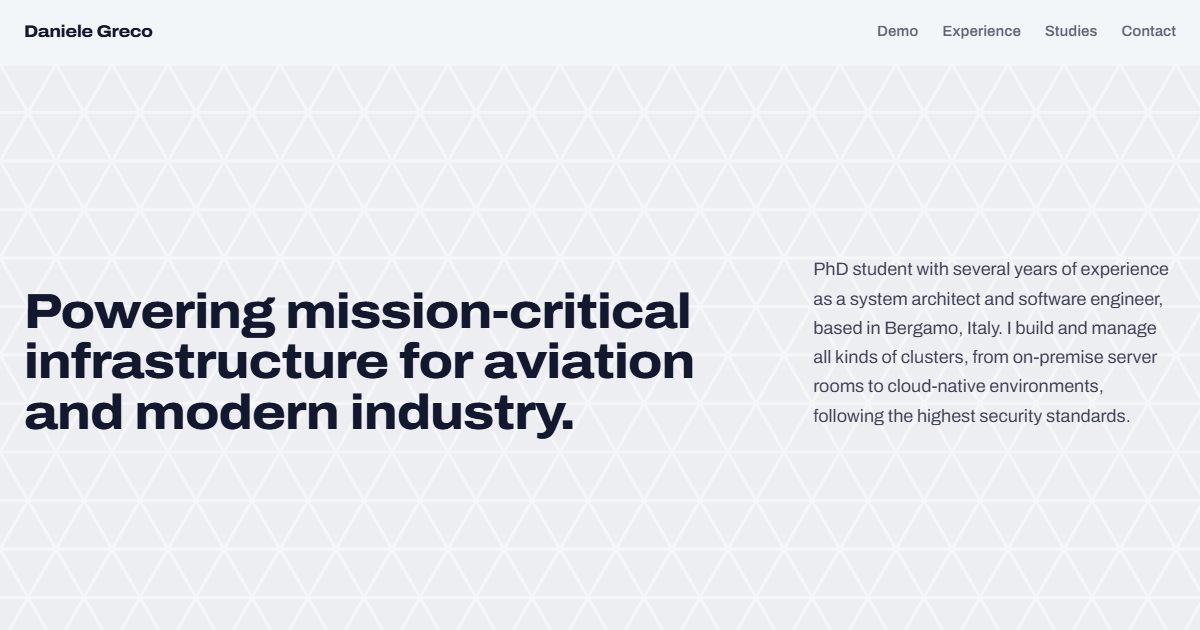
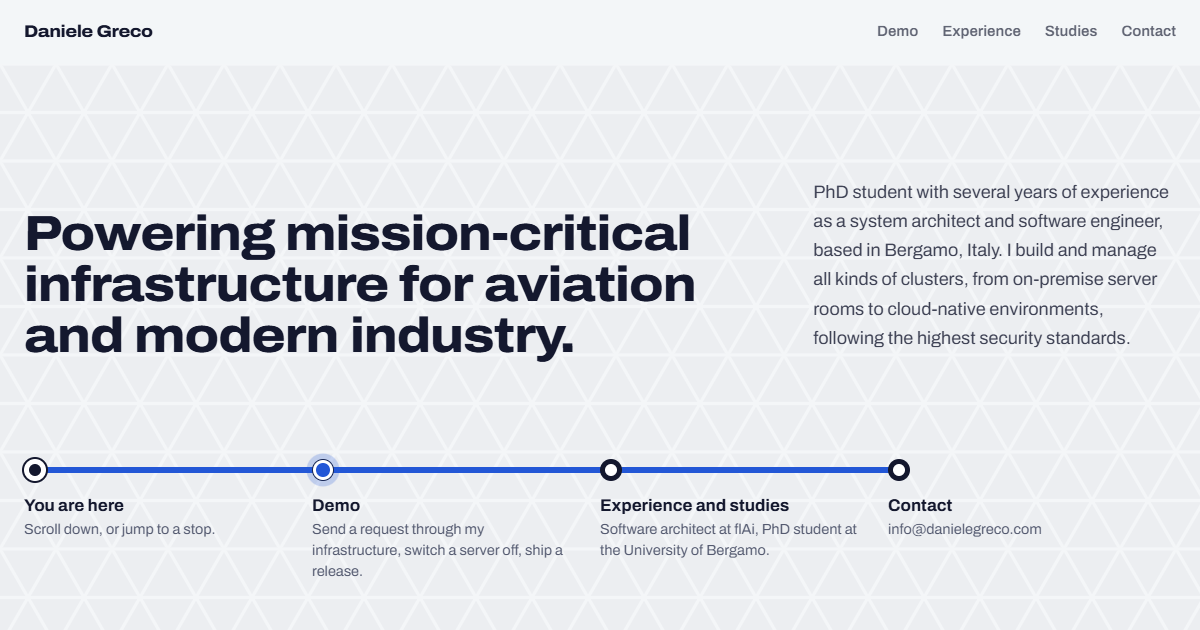
feat: animated headings, blue triangle field and a hero transit line
Headline words slide up one after the other on load, section titles when their screen comes into view. The triangle field uses shades of the palette blue only. Under the headline, the site's sections are drawn as stops on a transit line: it draws itself on load and a train moves to the Demo stop. Reduced motion shows everything at once.

diff --git a/src/styles/global.css b/src/styles/global.css
@@ -80,6 +80,215 @@
   }
 }
 
+/* Entrance animations. Without JavaScript (no .js class) everything is simply visible. */
+.js .reveal .w {
+  display: inline-block;
+  overflow: hidden;
+  vertical-align: top;
+  padding: 0.12em 0.03em 0.1em;
+  margin: -0.12em -0.03em -0.1em;
+}
+.js .reveal .w > span {
+  display: inline-block;
+  transform: translateY(115%) rotate(5deg);
+  transform-origin: 0 100%;
+}
+.js .reveal.in .w > span {
+  animation: word-in 0.55s cubic-bezier(0.22, 1.32, 0.36, 1) forwards;
+  animation-delay: calc(var(--i, 0) * 55ms + var(--delay, 0ms));
+}
+@keyframes word-in {
+  to {
+    transform: none;
+  }
+}
+
+.js .fade-up {
+  opacity: 0;
+  transform: translateY(12px);
+}
+.js .fade-up.in {
+  animation: fade-up 0.6s ease-out forwards;
+  animation-delay: var(--delay, 0ms);
+}
+@keyframes fade-up {
+  to {
+    opacity: 1;
+    transform: none;
+  }
+}
+
+/* Hero: the site drawn as a transit line, one stop per section. */
+.stops {
+  --dot: 22px;
+  position: relative;
+}
+.stops-list {
+  display: grid;
+  gap: 1.1rem;
+}
+.stops-line {
+  position: absolute;
+  border-radius: 9999px;
+  background: var(--color-traffic);
+  top: calc(var(--dot) / 2);
+  bottom: calc(var(--dot) / 2);
+  left: calc(var(--dot) / 2 - 3px);
+  width: 6px;
+  transform-origin: center top;
+}
+.stop {
+  position: relative;
+  padding-left: calc(var(--dot) + 14px);
+  min-height: var(--dot);
+}
+.stop-dot {
+  position: absolute;
+  left: 0;
+  top: 0;
+  width: var(--dot);
+  height: var(--dot);
+  border-radius: 50%;
+  background: #fff;
+  border: 5px solid var(--color-ink);
+  transition: background-color 0.15s, border-color 0.15s;
+}
+.stop-here .stop-dot {
+  background: var(--color-ink);
+  border-color: #fff;
+  box-shadow: 0 0 0 2px var(--color-ink);
+}
+.stop-name {
+  display: block;
+  font-size: 17px;
+  font-weight: 700;
+  line-height: var(--dot);
+}
+.stop-text {
+  display: block;
+  margin-top: 2px;
+  max-width: 32ch;
+  font-size: 14.5px;
+  line-height: 1.45;
+  color: var(--color-muted);
+}
+.stop-link:hover .stop-dot,
+.stop-link:focus-visible .stop-dot {
+  background: var(--color-traffic);
+  border-color: var(--color-traffic);
+}
+.stop-link:hover .stop-name {
+  text-decoration: underline;
+  text-underline-offset: 4px;
+}
+.stops-train {
+  display: none;
+}
+@media (min-width: 640px) {
+  .stops-list {
+    grid-template-columns: repeat(4, minmax(0, 1fr));
+    gap: 0;
+  }
+  .stops-line {
+    top: calc(var(--dot) / 2 - 3px);
+    bottom: auto;
+    left: calc(var(--dot) / 2);
+    right: calc(25% - var(--dot) / 2);
+    width: auto;
+    height: 6px;
+    transform-origin: left center;
+  }
+  .stop {
+    padding-left: 0;
+    padding-top: calc(var(--dot) + 14px);
+    padding-right: 1.5rem;
+  }
+  .stops-train {
+    display: block;
+    position: absolute;
+    top: calc(var(--dot) / 2 - 7px);
+    left: calc(var(--dot) / 2 - 7px);
+    width: 14px;
+    height: 14px;
+    border-radius: 50%;
+    background: var(--color-traffic);
+    box-shadow: 0 0 0 3px #fff;
+    pointer-events: none;
+    z-index: 1;
+  }
+}
+
+.js .stops .stops-line {
+  transform: scaleY(0);
+}
+.js .stops .stop,
+.js .stops .stops-train {
+  opacity: 0;
+}
+.js .stops.in .stops-line {
+  animation: line-in 0.7s cubic-bezier(0.65, 0, 0.35, 1) 0.75s forwards;
+}
+.js .stops.in .stop {
+  animation: fade-up 0.45s ease-out forwards;
+  animation-delay: calc(0.85s + var(--n) * 0.13s);
+  transform: translateY(8px);
+}
+.js .stops.in .stops-train {
+  animation:
+    train-arrive 0.3s ease-out 1.45s forwards,
+    train-go 0.9s cubic-bezier(0.65, 0, 0.35, 1) 1.75s forwards,
+    train-wait 1.6s ease-out 2.65s 3;
+}
+@keyframes line-in {
+  to {
+    transform: none;
+  }
+}
+@keyframes train-arrive {
+  to {
+    opacity: 1;
+  }
+}
+@keyframes train-go {
+  from {
+    opacity: 1;
+    left: calc(var(--dot) / 2 - 7px);
+  }
+  to {
+    opacity: 1;
+    left: calc(25% + var(--dot) / 2 - 7px);
+  }
+}
+@keyframes train-wait {
+  0% {
+    box-shadow: 0 0 0 3px #fff, 0 0 0 3px rgb(35 87 214 / 0.45);
+  }
+  100% {
+    box-shadow: 0 0 0 3px #fff, 0 0 0 16px rgb(35 87 214 / 0);
+  }
+}
+@media (min-width: 640px) {
+  .js .stops .stops-line {
+    transform: scaleX(0);
+  }
+}
+
+@media (prefers-reduced-motion: reduce) {
+  .js .reveal .w > span,
+  .js .fade-up,
+  .js .stops .stops-line,
+  .js .stops .stop {
+    animation: none !important;
+    transform: none !important;
+    opacity: 1 !important;
+  }
+  .js .stops .stops-train {
+    animation: none !important;
+    opacity: 1 !important;
+    left: calc(25% + var(--dot) / 2 - 7px);
+  }
+}
+
 /* Map: SVG groups draw their own focus ring. */
 .hit:focus {
   outline: none;

diff --git a/src/scripts/field.js b/src/scripts/field.js
@@ -1,7 +1,8 @@
 // Hero background: a field of triangles that fly into place on load,
 // then scatter around the pointer and fall back into the grid behind it.
 
-const COLORS = ['#2357d6', '#0e9f7e', '#e59a00', '#7a4ce0'].map((hex) => [
+// Shades of the palette blue, from deep to light.
+const COLORS = ['#1f3f99', '#2357d6', '#4a78e4', '#7b9ff0', '#a9c0f5'].map((hex) => [
   parseInt(hex.slice(1, 3), 16),
   parseInt(hex.slice(3, 5), 16),
   parseInt(hex.slice(5, 7), 16),
@@ -47,7 +48,7 @@ export function startField(canvas) {
         const rnd = hash(r, c);
         tris.push({
           cx, cy, up, side, h,
-          color: COLORS[Math.floor(rnd * 4) % 4],
+          color: COLORS[Math.floor(rnd * COLORS.length) % COLORS.length],
           spin: rnd > 0.5 ? 1 : -1,
           release: 150 + (cx / Math.max(W, 1)) * 700 + rnd * 250,
           dx: intro ? (rnd - 0.5) * 220 : 0,
@@ -78,7 +79,7 @@ export function startField(canvas) {
     ctx.closePath();
     if (t.glow > 0.01) {
       const [r, g, b] = t.color;
-      ctx.fillStyle = `rgba(${r}, ${g}, ${b}, ${(0.06 + 0.52 * t.glow).toFixed(3)})`;
+      ctx.fillStyle = `rgba(${r}, ${g}, ${b}, ${(0.05 + 0.45 * t.glow).toFixed(3)})`;
     } else {
       ctx.fillStyle = `rgba(${INK}, 0.035)`;
     }
